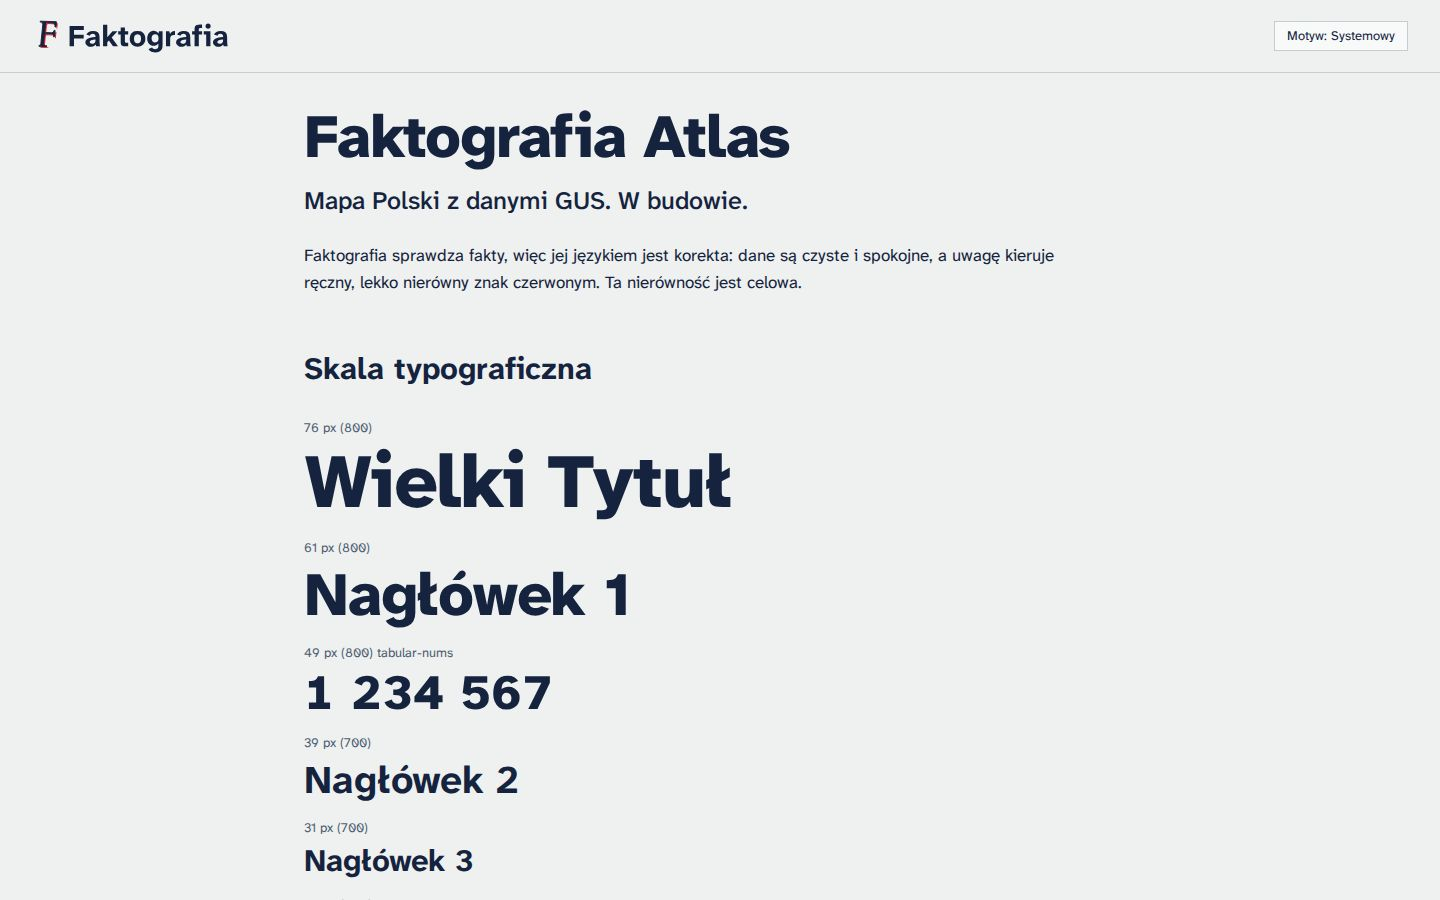
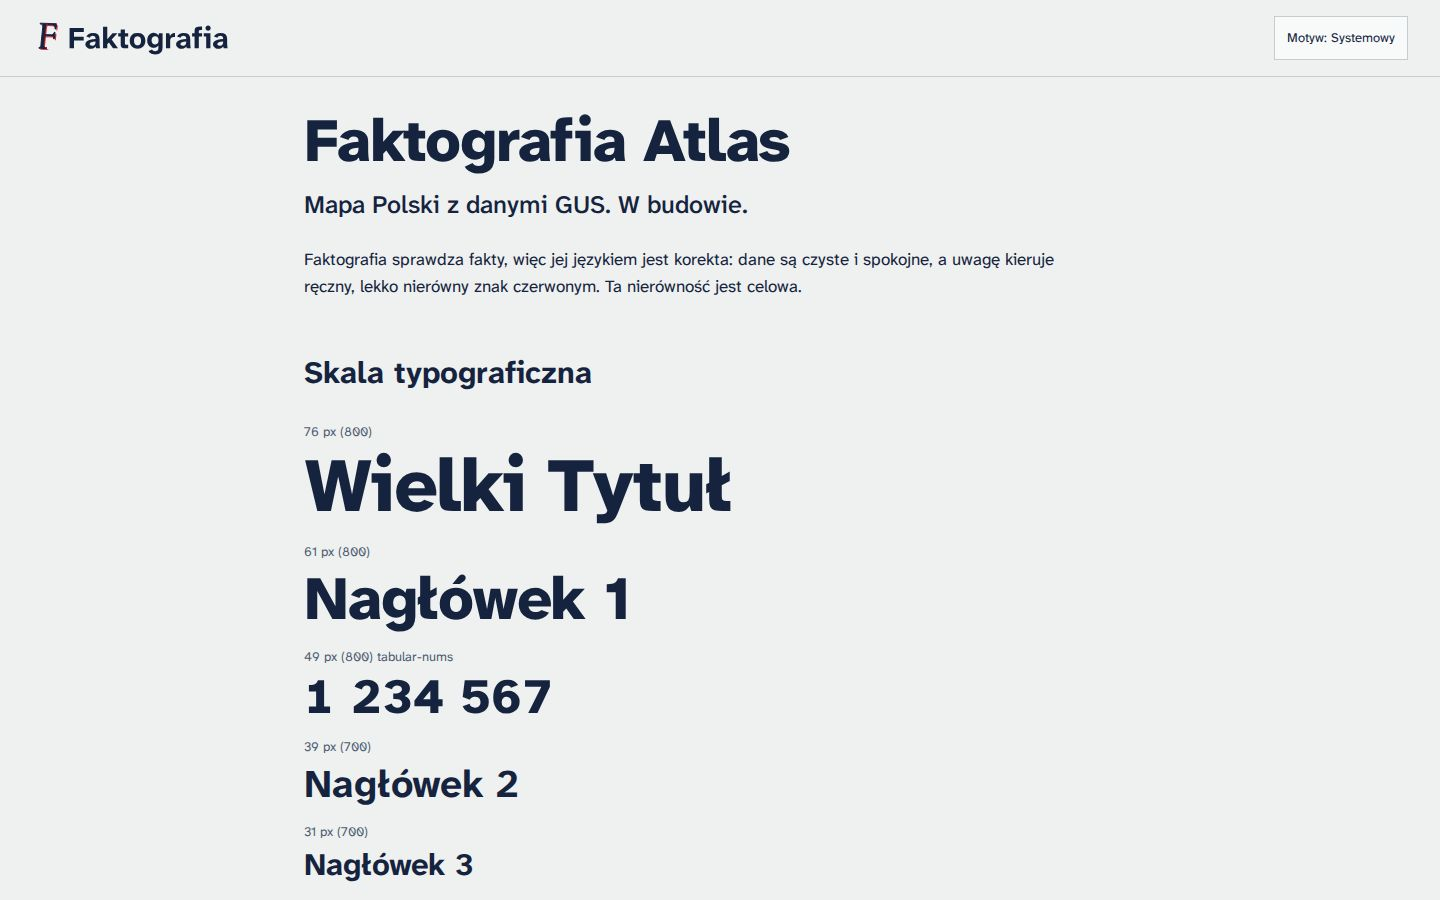
CC1.1: porzadki po CC1 i bramka bezpieczenstwa (#11)
- Dodano skrypt public/theme-init.js zapobiegajacy mignieciu motywu przed zaladowaniem React.
- Przycisk motywu w Header powiększony do min 44x44 px (STYL §5), wyeliminowano setState w useEffect.
- Wygenerowano zmienne skali typograficznej z tokenow (--text-xs...--text-5xl) i podmieniono w widokach.
- Skonfigurowano scisly typecheck oraz oxlint --deny-warnings z zakazami (no-danger, ban-ts-comment, no-focused-tests).
- Dodano naglowki bezpieczenstwa CSP w vercel.json i vite.config.ts.
- Utworzono workflow CI z zadaniami verify oraz security (gitleaks + pnpm audit).
- Dodano konfiguracje Dependabot oraz szablon zgloszenia.
- Zaktualizowano AGENTS.md, STAN_PROJEKTU.md oraz docs/sessions.

diff --git a/src/view/Header.tsx b/src/view/Header.tsx
@@ -1,68 +1,63 @@
-import { useEffect, useState } from 'react';
+import { useEffect, useState, useSyncExternalStore } from 'react';
 
 type Theme = 'light' | 'dark' | 'system';
 
-export function Header() {
-  const [theme, setTheme] = useState<Theme>('system');
-  const [isDark, setIsDark] = useState(false);
+function subscribeSystemTheme(callback: () => void) {
+  const mediaQuery = window.matchMedia('(prefers-color-scheme: dark)');
+  mediaQuery.addEventListener('change', callback);
+  return () => mediaQuery.removeEventListener('change', callback);
+}
 
-  useEffect(() => {
+function getSystemIsDark(): boolean {
+  if (typeof window === 'undefined') return false;
+  return window.matchMedia('(prefers-color-scheme: dark)').matches;
+}
+
+export function Header() {
+  const [theme, setTheme] = useState<Theme>(() => {
     try {
       const saved = localStorage.getItem('faktografia-theme') as Theme | null;
-      if (saved) {
-        setTheme(saved);
-      }
-    } catch (e) {}
-  }, []);
+      return saved || 'system';
+    } catch {
+      return 'system';
+    }
+  });
+
+  const systemIsDark = useSyncExternalStore(subscribeSystemTheme, getSystemIsDark, () => false);
+
+  const activeIsDark = theme === 'dark' || (theme === 'system' && systemIsDark);
 
   useEffect(() => {
-    const mediaQuery = window.matchMedia('(prefers-color-scheme: dark)');
-
-    const updateTheme = () => {
-      let activeIsDark = false;
-      if (theme === 'dark') {
-        activeIsDark = true;
-      } else if (theme === 'system' && mediaQuery.matches) {
-        activeIsDark = true;
-      }
-
-      setIsDark(activeIsDark);
-
-      const html = document.documentElement;
-      if (theme !== 'system') {
-        html.setAttribute('data-theme', theme);
-      } else {
-        html.removeAttribute('data-theme');
-      }
-    };
-
-    updateTheme();
-    mediaQuery.addEventListener('change', updateTheme);
-    return () => mediaQuery.removeEventListener('change', updateTheme);
+    const html = document.documentElement;
+    if (theme !== 'system') {
+      html.setAttribute('data-theme', theme);
+    } else {
+      html.removeAttribute('data-theme');
+    }
   }, [theme]);
 
   const cycleTheme = () => {
-    const next: Theme = theme === 'system' ? 'light' : (theme === 'light' ? 'dark' : 'system');
+    const next: Theme = theme === 'system' ? 'light' : theme === 'light' ? 'dark' : 'system';
     setTheme(next);
     try {
       localStorage.setItem('faktografia-theme', next);
-    } catch (e) {}
+    } catch {}
   };
 
-  const themeText = theme === 'system' ? 'Systemowy' : (theme === 'light' ? 'Jasny' : 'Ciemny');
+  const themeText = theme === 'system' ? 'Systemowy' : theme === 'light' ? 'Jasny' : 'Ciemny';
 
   return (
     <header className="flex justify-between items-center py-4 px-4 md:px-8 border-b border-linia">
       <div>
         <img
-          src={isDark ? "/brand/faktografia-logo-jasne.svg" : "/brand/faktografia-logo-granat.svg"}
+          src={activeIsDark ? "/brand/faktografia-logo-jasne.svg" : "/brand/faktografia-logo-granat.svg"}
           alt="Faktografia"
           className="h-[32px] md:h-[40px]"
         />
       </div>
       <button
         onClick={cycleTheme}
-        className="px-3 py-1 border border-linia bg-arkusz hover:bg-linia/20 transition-colors text-tusz text-[13px]"
+        className="min-w-[44px] min-h-[44px] px-3 py-2 border border-linia bg-arkusz hover:bg-linia/20 transition-colors text-tusz text-xs flex items-center justify-center"
       >
         Motyw: {themeText}
       </button>

diff --git a/src/styles/tokens.css b/src/styles/tokens.css
@@ -24,6 +24,15 @@
   --highlight: var(--korekta);
   --font-sans: 'Atkinson Hyperlegible Next', system-ui, sans-serif;
   --font-mono: 'Atkinson Hyperlegible Mono', ui-monospace, monospace;
+  --text-xs: 13px;
+  --text-sm: 17px;
+  --text-md: 20px;
+  --text-lg: 25px;
+  --text-xl: 31px;
+  --text-2xl: 39px;
+  --text-3xl: 49px;
+  --text-4xl: 61px;
+  --text-5xl: 76px;
   --radius: 0px;
   --motion-fast: 150ms;
   --motion-base: 300ms;
@@ -55,6 +64,15 @@
   --highlight: var(--korekta);
   --font-sans: 'Atkinson Hyperlegible Next', system-ui, sans-serif;
   --font-mono: 'Atkinson Hyperlegible Mono', ui-monospace, monospace;
+  --text-xs: 13px;
+  --text-sm: 17px;
+  --text-md: 20px;
+  --text-lg: 25px;
+  --text-xl: 31px;
+  --text-2xl: 39px;
+  --text-3xl: 49px;
+  --text-4xl: 61px;
+  --text-5xl: 76px;
   --radius: 0px;
   --motion-fast: 150ms;
   --motion-base: 300ms;
@@ -87,6 +105,15 @@
   --highlight: var(--korekta);
   --font-sans: 'Atkinson Hyperlegible Next', system-ui, sans-serif;
   --font-mono: 'Atkinson Hyperlegible Mono', ui-monospace, monospace;
+  --text-xs: 13px;
+  --text-sm: 17px;
+  --text-md: 20px;
+  --text-lg: 25px;
+  --text-xl: 31px;
+  --text-2xl: 39px;
+  --text-3xl: 49px;
+  --text-4xl: 61px;
+  --text-5xl: 76px;
   --radius: 0px;
   --motion-fast: 150ms;
   --motion-base: 300ms;
@@ -120,6 +147,15 @@
   --highlight: var(--korekta);
   --font-sans: 'Atkinson Hyperlegible Next', system-ui, sans-serif;
   --font-mono: 'Atkinson Hyperlegible Mono', ui-monospace, monospace;
+  --text-xs: 13px;
+  --text-sm: 17px;
+  --text-md: 20px;
+  --text-lg: 25px;
+  --text-xl: 31px;
+  --text-2xl: 39px;
+  --text-3xl: 49px;
+  --text-4xl: 61px;
+  --text-5xl: 76px;
   --radius: 0px;
   --motion-fast: 0ms;
   --motion-base: 0ms;
@@ -150,6 +186,15 @@
   --highlight: var(--korekta);
   --font-sans: 'Atkinson Hyperlegible Next', system-ui, sans-serif;
   --font-mono: 'Atkinson Hyperlegible Mono', ui-monospace, monospace;
+  --text-xs: 13px;
+  --text-sm: 17px;
+  --text-md: 20px;
+  --text-lg: 25px;
+  --text-xl: 31px;
+  --text-2xl: 39px;
+  --text-3xl: 49px;
+  --text-4xl: 61px;
+  --text-5xl: 76px;
   --radius: 0px;
   --motion-fast: 0ms;
   --motion-base: 0ms;
@@ -181,6 +226,15 @@
   --highlight: var(--korekta);
   --font-sans: 'Atkinson Hyperlegible Next', system-ui, sans-serif;
   --font-mono: 'Atkinson Hyperlegible Mono', ui-monospace, monospace;
+  --text-xs: 13px;
+  --text-sm: 17px;
+  --text-md: 20px;
+  --text-lg: 25px;
+  --text-xl: 31px;
+  --text-2xl: 39px;
+  --text-3xl: 49px;
+  --text-4xl: 61px;
+  --text-5xl: 76px;
   --radius: 0px;
   --motion-fast: 0ms;
   --motion-base: 0ms;

diff --git a/index.html b/index.html
@@ -2,6 +2,7 @@
 <html lang="pl">
   <head>
     <meta charset="UTF-8" />
+    <script src="/theme-init.js"></script>
     <link rel="icon" type="image/svg+xml" href="/brand/faktografia-favicon.svg" />
     <meta name="viewport" content="width=device-width, initial-scale=1.0" />
     <title>Faktografia Atlas</title>

diff --git a/public/theme-init.js b/public/theme-init.js
@@ -1,0 +1,10 @@
+(function () {
+  try {
+    var saved = localStorage.getItem('faktografia-theme');
+    if (saved && saved !== 'system') {
+      document.documentElement.setAttribute('data-theme', saved);
+    } else {
+      document.documentElement.removeAttribute('data-theme');
+    }
+  } catch {}
+})();

diff --git a/GEMINI_HANDOFF.md b/GEMINI_HANDOFF.md
@@ -18,6 +18,7 @@ CC0 zakończona: repo przygotowane, system stylu Kalka i korekta w docs/STYL.md,
 ./docs/README.md
 ./docs/STYL.md
 ./docs/sessions/.gitkeep
+./docs/sessions/CC1.1.md
 ./docs/sessions/CC1.md
 ./docs/shots/.gitkeep
 ./docs/shots/desktop-dark.jpg
@@ -27,7 +28,6 @@ CC0 zakończona: repo przygotowane, system stylu Kalka i korekta w docs/STYL.md,
 ./index.html
 ./legacy/marka/.gitkeep
 ./package.json
-./playwright-report/index.html
 ./playwright.config.ts
 ./pnpm-lock.yaml
 ./public/brand/faktografia-favicon.svg
@@ -37,6 +37,7 @@ CC0 zakończona: repo przygotowane, system stylu Kalka i korekta w docs/STYL.md,
 ./public/brand/faktografia-znak-jasny.svg
 ./public/favicon.svg
 ./public/icons.svg
+./public/theme-init.js
 ./scripts/handoff.mjs
 ./scripts/shots.config.json
 ./scripts/shots.mjs
@@ -51,7 +52,6 @@ CC0 zakończona: repo przygotowane, system stylu Kalka i korekta w docs/STYL.md,
 ./src/view/Header.tsx
 ./src/view/Home.tsx
 ./src/view/NotFound.tsx
-./test-results/.last-run.json
 ./tests/e2e/home.spec.ts
 ./tests/unit/tokens.test.ts
 ./tsconfig.app.json
@@ -113,8 +113,8 @@ src/view/NotFound.tsx:
 
 [2m Test Files [22m [1m[32m1 passed[39m[22m[90m (1)[39m
 [2m      Tests [22m [1m[32m3 passed[39m[22m[90m (3)[39m
-[2m   Start at [22m 07:54:04
-[2m   Duration [22m 195ms[2m (import 42%, transform 21%, tests 21%, worker 16%, environment 1%)[22m
+[2m   Start at [22m 09:18:55
+[2m   Duration [22m 200ms[2m (import 41%, tests 22%, transform 22%, worker 15%, environment 1%)[22m
 
 
 ```

diff --git a/docs/sessions/CC1.1.md b/docs/sessions/CC1.1.md
@@ -1,0 +1,14 @@
+CC1.1 – porządki po CC1 i bramka bezpieczeństwa
+
+Zadanie: CC1.1 – porządki po CC1 i bramka bezpieczeństwa
+Kontekst: przeczytaj AGENTS.md, docs/STYL.md (sekcje 3, 5, 12) i STAN_PROJEKTU.md. CC1 (PR #2) jest scalone i działa.
+Przegląd po CC1 wykazał usterki, a nowe wytyczne projektu wymagają bramki bezpieczeństwa w CI i krótszego AGENTS.md.
+To zadanie wprost pozwala zmieniać AGENTS.md, .github/, package.json, vercel.json i scripts/.
+Cel dla użytkownika: strona wygląda tak samo, ale nie miga przy ciemnym motywie, przycisk motywu łatwo trafić palcem,
+a każdy PR jest automatycznie sprawdzany pod kątem sekretów i podatności.
+Zakres: AGENTS.md, STAN_PROJEKTU.md, docs/sessions/, index.html, src/view/Header.tsx, src/view/Home.tsx,
+scripts/tokens.mjs, scripts/handoff.mjs, package.json, .oxlintrc.json, vercel.json, .github/ (workflows, dependabot.yml,
+ISSUE_TEMPLATE), tests/. Usuwane pliki: src/assets/hero.png, src/assets/react.svg, src/assets/vite.svg,
+public/icons.svg, public/favicon.svg.
+Poza zakresem: wygląd strony (poza przyciskiem motywu), nowe biblioteki do aplikacji, config/tokens.json, docs/STYL.md,
+docs/MASTER_PLAN.md.

diff --git a/docs/sessions/CC1.md b/docs/sessions/CC1.md
@@ -1,4 +1,1 @@
-Szkielet aplikacji i narzędzia, tokeny stylu.
-Stworzono projekt w Vite, skonfigurowano generowanie `tokens.css`, dodano stronę główną z design systemem z tokenów.
-Działają skrypty weryfikacji i robienia zrzutów ekranu.
-Odhaczone warunki odbioru z zadania CC1.
+treść w zadaniu Julesa CC1
